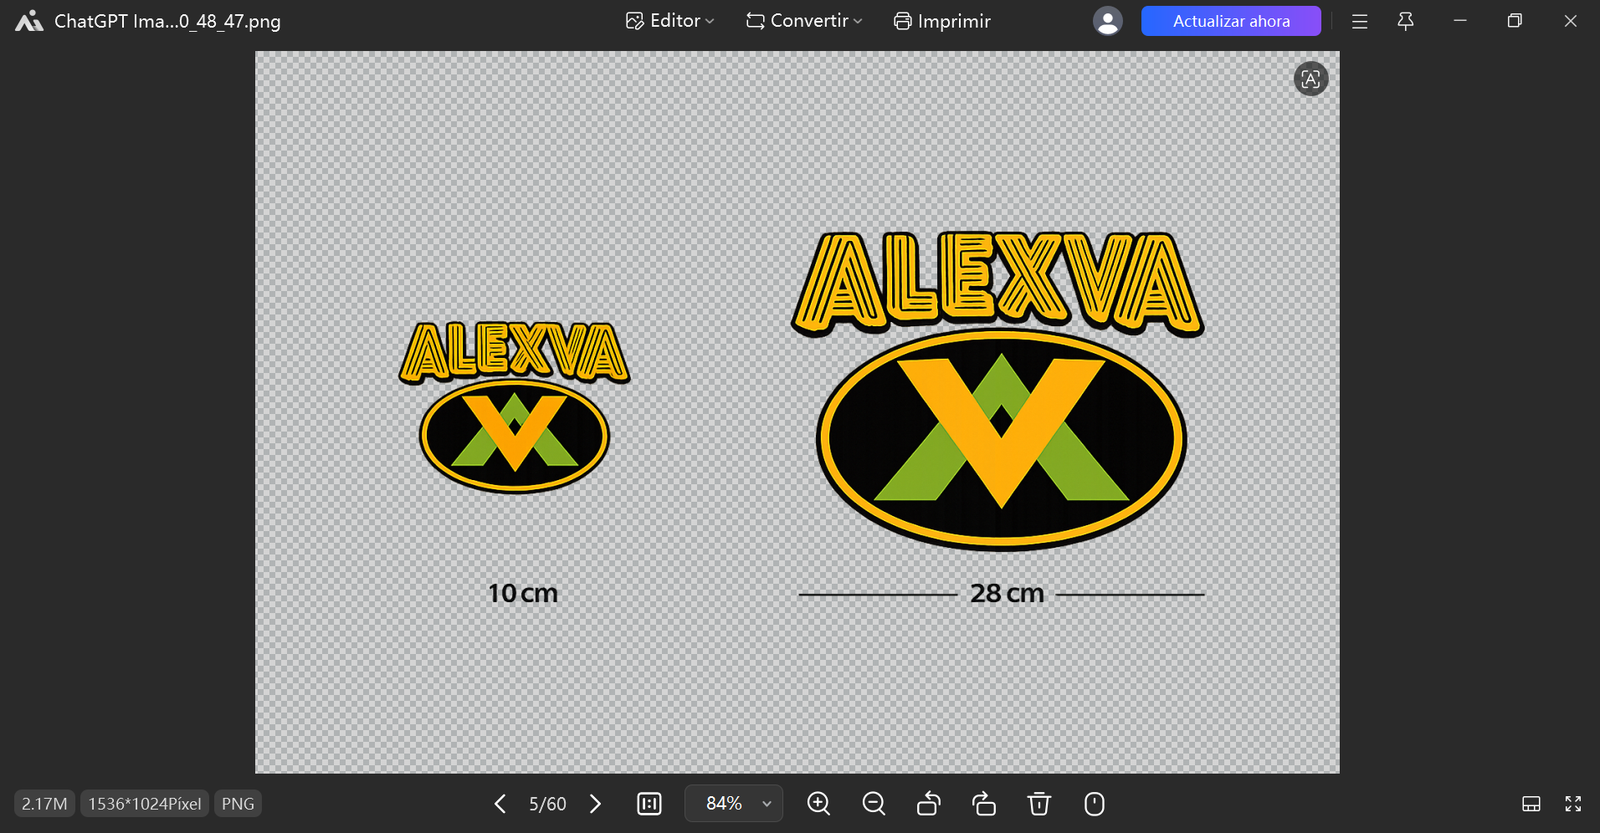
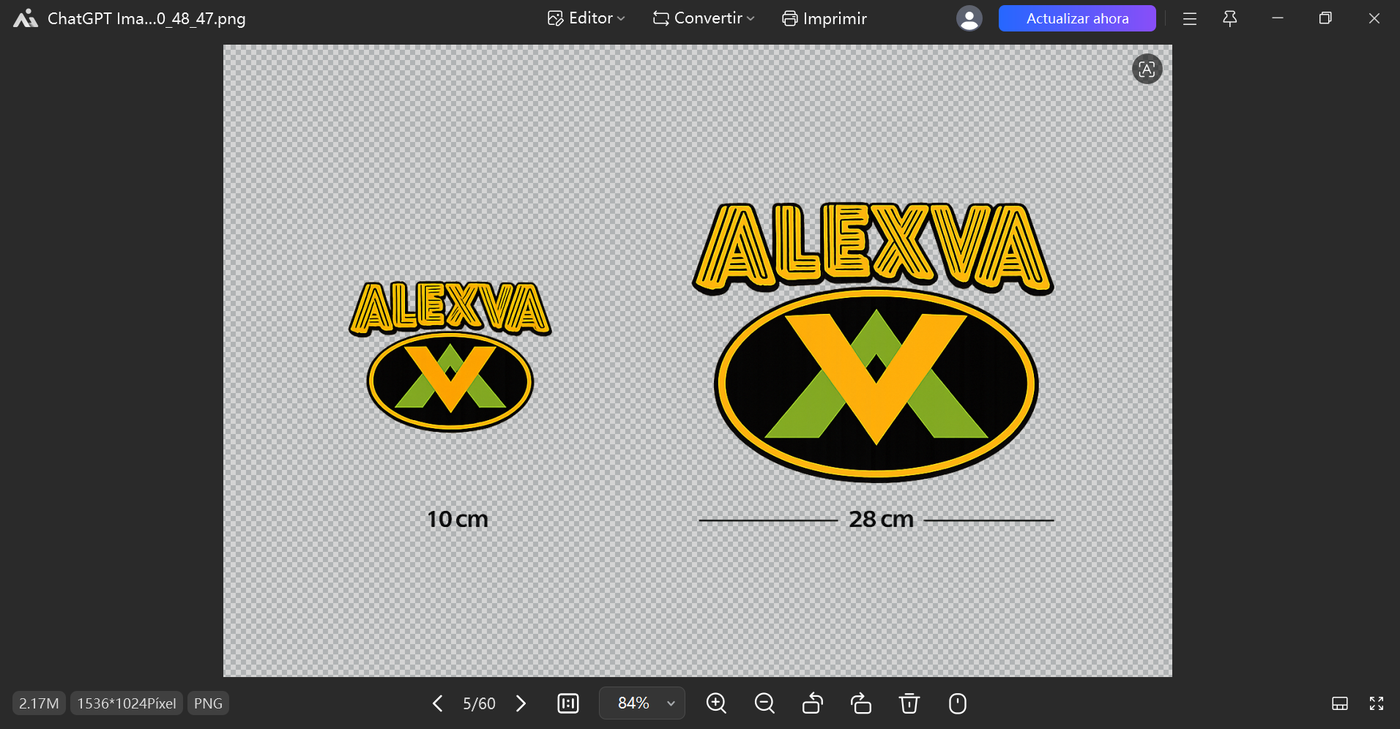
Add files via upload

diff --git a/index.html b/index.html
@@ -3,90 +3,93 @@
 <head>
   <meta charset="UTF-8" />
   <meta name="viewport" content="width=device-width, initial-scale=1.0" />
-  <title>ELITE DECORT & Events | Manualidades Personalizadas</title>
+  <title>Elite Decor & Events | Manualidades y Eventos</title>
   <link rel="stylesheet" href="styles.css" />
 </head>
 <body>
-  <header class="hero">
-    <nav class="navbar">
-      <div class="logo">ELITE DECORT<br><span>& Events</span></div>
-      <div class="nav-links">
-        <a href="#productos">Productos</a>
-        <a href="#personaliza">Personaliza</a>
-        <a href="#contacto">Contacto</a>
-      </div>
+  <header class="topbar">
+    <a href="#inicio" class="brand"><img src="assets/logo.jpg" alt="Logo Elite Decor & Events"><span>ELITE DECOR<br><small>& Events</small></span></a>
+    <nav>
+      <a href="#servicios">Servicios</a>
+      <a href="#galeria">Galería</a>
+      <a href="#videos">Videos</a>
+      <a href="#trabajos">Trabajos</a>
+      <a href="#contacto">Contacto</a>
     </nav>
-
-    <section class="hero-content">
-      <div>
-        <p class="tag">Detalles hechos con amor</p>
-        <h1>Manualidades personalizadas para regalar y sorprender</h1>
-        <p class="intro">Tazas, camisetas, termos, cajas sorpresa, decoración para eventos y regalos únicos hechos a tu gusto.</p>
-        <a class="btn" href="https://wa.me/[phone redacted]?text=Hola%2C%20quiero%20hacer%20un%20pedido%20personalizado" target="_blank">Pedir por WhatsApp</a>
-      </div>
-    </section>
   </header>
 
-  <main>
-    <section class="section" id="productos">
-      <p class="tag center">Catálogo</p>
-      <h2>Productos destacados</h2>
-      <div class="grid">
-        <article class="card">
-          <div class="emoji">☕</div>
-          <h3>Tazas personalizadas</h3>
-          <p>Diseños para cumpleaños, amor, familia, empresas y fechas especiales.</p>
-          <a href="https://wa.me/34652829254?text=Hola%2C%20quiero%20una%20taza%20personalizada" target="_blank">Cotizar</a>
-        </article>
-        <article class="card">
-          <div class="emoji">👕</div>
-          <h3>Camisetas y prendas</h3>
-          <p>Estampados personalizados para regalos, negocios, eventos y equipos.</p>
-          <a href="https://wa.me/34652829254?text=Hola%2C%20quiero%20personalizar%20una%20camiseta" target="_blank">Cotizar</a>
-        </article>
-        <article class="card">
-          <div class="emoji">🎁</div>
-          <h3>Cajas sorpresa</h3>
-          <p>Arma tu regalo como quieras según tu presupuesto y ocasión.</p>
-          <a href="https://wa.me/34652829254?text=Hola%2C%20quiero%20una%20caja%20sorpresa" target="_blank">Cotizar</a>
-        </article>
-        <article class="card">
-          <div class="emoji">🎈</div>
-          <h3>Decoración de eventos</h3>
-          <p>Arcos, detalles decorativos y decoración para cumpleaños, bautizos y celebraciones.</p>
-          <a href="https://wa.me/34652829254?text=Hola%2C%20quiero%20información%20sobre%20decoración%20de%20eventos" target="_blank">Cotizar</a>
-        </article>
+  <main id="inicio">
+    <section class="hero">
+      <div class="hero-text">
+        <p class="tag">Detalles hechos con amor</p>
+        <h1>Manualidades personalizadas, regalos y decoración para eventos</h1>
+        <p>Tazas, camisetas, cajas sorpresa, arcos, decoración y regalos únicos hechos a tu gusto.</p>
+        <div class="hero-buttons">
+          <a class="btn" href="#galeria">Ver galería</a>
+          <a class="btn secondary" href="https://wa.me/[phone redacted]" target="_blank">Pedir por WhatsApp</a>
+        </div>
+      </div>
+      <div class="hero-card"><img src="assets/logo_negro.jpg" alt="Elite Decor & Events"></div>
+    </section>
+
+    <section id="servicios" class="section">
+      <p class="tag">Lo que ofrecemos</p>
+      <h2>Servicios</h2>
+      <div class="cards">
+        <article><span>☕</span><h3>Tazas personalizadas</h3><p>Diseños para cumpleaños, amor, familia, empresas y fechas especiales.</p></article>
+        <article><span>👕</span><h3>Camisetas y prendas</h3><p>Estampados personalizados para negocios, eventos, equipos y regalos.</p></article>
+        <article><span>🎁</span><h3>Cajas sorpresa</h3><p>Detalles especiales con chocolates, perfumes, peluches y regalos.</p></article>
+        <article><span>🎈</span><h3>Decoración y arcos</h3><p>Alquiler de arco redondo y decoración para fiestas y momentos especiales.</p></article>
       </div>
     </section>
 
-    <section class="banner" id="personaliza">
-      <div>
-        <p class="tag">¿Cómo comprar?</p>
-        <h2>Elige, personaliza y recibe tu pedido</h2>
-        <p>Envíanos la foto, frase, nombre o idea que quieres. Te ayudamos a crear un detalle bonito, original y listo para regalar.</p>
-      </div>
-      <a class="btn dark" href="https://wa.me/34652829254?text=Hola%2C%20quiero%20personalizar%20un%20regalo" target="_blank">Personalizar ahora</a>
-    </section>
-
-    <section class="section why">
-      <h2>Por qué elegirnos</h2>
-      <div class="features">
-        <div><strong>Diseños únicos</strong><br>Hechos según tu idea.</div>
-        <div><strong>Atención cercana</strong><br>Te guiamos paso a paso.</div>
-        <div><strong>Regalos especiales</strong><br>Para toda ocasión.</div>
+    <section id="galeria" class="section dark">
+      <p class="tag">Fotos reales y diseños</p>
+      <h2>Galería de fotos</h2>
+      <div class="gallery">
+        <figure><img src="assets/tazas_mama.jpg" alt="Tazas personalizadas"><figcaption>Tazas personalizadas</figcaption></figure>
+        <figure><img src="assets/taza_cumple.jpg" alt="Taza cumpleaños"><figcaption>Taza de cumpleaños</figcaption></figure>
+        <figure><img src="assets/taza_gaby.jpg" alt="Taza infantil"><figcaption>Taza infantil personalizada</figcaption></figure>
+        <figure><img src="assets/tazas_publicidad.jpg" alt="Tazas promocionales"><figcaption>Promoción de tazas</figcaption></figure>
+        <figure><img src="assets/camisetas.png" alt="Camisetas personalizadas"><figcaption>Camisetas personalizadas</figcaption></figure>
+        <figure><img src="assets/alexva.png" alt="Logo para camiseta"><figcaption>Diseño para estampar</figcaption></figure>
+        <figure><img src="assets/caja_real.jpg" alt="Caja sorpresa real"><figcaption>Caja sorpresa real</figcaption></figure>
+        <figure><img src="assets/caja_publicidad.jpg" alt="Caja sorpresa mamá"><figcaption>Caja sorpresa para mamá</figcaption></figure>
+        <figure><img src="assets/arco.png" alt="Arco redondo para alquilar"><figcaption>Arco redondo para alquilar</figcaption></figure>
       </div>
     </section>
 
-    <section class="contact" id="contacto">
-      <h2>Haz tu pedido</h2>
-      <p>Escríbenos por WhatsApp y cuéntanos qué detalle quieres crear.</p>
-      <div class="phone">📲 [phone redacted] / [phone redacted]</div>
-      <a class="btn" href="https://wa.me/34652829254?text=Hola%2C%20vengo%20de%20la%20página%20web%20y%20quiero%20hacer%20un%20pedido" target="_blank">Enviar mensaje</a>
+    <section id="videos" class="section">
+      <p class="tag">Contenido para redes</p>
+      <h2>Videos</h2>
+      <div class="video-grid">
+        <div class="video-box"><h3>Video de tazas</h3><p>Aquí puedes poner un enlace de YouTube, TikTok o Instagram mostrando tus tazas.</p></div>
+        <div class="video-box"><h3>Antes y después</h3><p>Espacio para videos cortos de trabajos terminados y proceso.</p></div>
+        <div class="video-box"><h3>Decoración de eventos</h3><p>Espacio para videos de arcos, montajes y decoración.</p></div>
+      </div>
+      <p class="note">Cuando tengas enlaces de videos, se cambian estos cuadros por videos reales.</p>
+    </section>
+
+    <section id="trabajos" class="section dark">
+      <p class="tag">Ejemplos con descripción</p>
+      <h2>Trabajos realizados</h2>
+      <div class="work-list">
+        <article><img src="assets/tazas_mama.jpg" alt="Tazas para mamá"><div><h3>Tazas para fechas especiales</h3><p>Diseños personalizados para mamá, hermana, suegra y regalos familiares.</p></div></article>
+        <article><img src="assets/caja_real.jpg" alt="Caja sorpresa"><div><h3>Cajas sorpresa personalizadas</h3><p>Regalos armados con detalles, chocolates, perfume y decoración especial.</p></div></article>
+        <article><img src="assets/arco.png" alt="Arco redondo"><div><h3>Decoración y alquiler de arco</h3><p>Arco redondo disponible para cumpleaños, baby shower, bautizos y fiestas.</p></div></article>
+        <article><img src="assets/camisetas.png" alt="Camisetas"><div><h3>Camisetas y uniformes</h3><p>Diseños para pecho y espalda con logos de empresa o marca personal.</p></div></article>
+      </div>
+    </section>
+
+    <section id="contacto" class="section contact">
+      <h2>Contacto</h2>
+      <p>Haz tu pedido o cotización por WhatsApp.</p>
+      <p class="phones">652822545 · 652829254</p>
+      <a class="btn" href="https://wa.me/[phone redacted]" target="_blank">Escribir por WhatsApp</a>
+      <p class="social">Instagram / Facebook / TikTok: añade aquí tus redes sociales</p>
     </section>
   </main>
 
-  <footer>
-    <p>© 2026 ELITE DECORT & Events. Manualidades y detalles personalizados.</p>
-  </footer>
+  <a class="whatsapp" href="https://wa.me/[phone redacted]" target="_blank">WhatsApp</a>
 </body>
 </html>

diff --git a/styles.css b/styles.css
@@ -1,1 +1,1 @@
-*{box-sizing:border-box}body{margin:0;font-family:Arial,Helvetica,sans-serif;background:#fff8f3;color:#211816}a{color:inherit}.hero{min-height:92vh;background:linear-gradient(135deg,rgba(0,0,0,.86),rgba(77,43,30,.83)),url('assets/logo.jpg') center/cover;color:white}.nav{display:flex;align-items:center;justify-content:space-between;padding:24px 6%;position:relative;z-index:2}.brand{font-weight:800;letter-spacing:2px;font-size:24px}.brand span{display:block;font-weight:300;font-size:14px;letter-spacing:4px;color:#e8c37b}.links{display:flex;gap:22px}.links a{text-decoration:none;color:#fff}.hero-content{display:grid;grid-template-columns:1.1fr .9fr;gap:40px;align-items:center;padding:50px 6% 80px}.tag{text-transform:uppercase;letter-spacing:3px;color:#c99245;font-weight:700;font-size:13px}.hero h1{font-size:58px;line-height:1.02;margin:16px 0;max-width:820px}.sub{font-size:21px;line-height:1.6;color:#f7e9d8}.hero-logo{width:100%;border-radius:28px;box-shadow:0 20px 60px rgba(0,0,0,.35)}.buttons{display:flex;gap:14px;flex-wrap:wrap;margin-top:28px}.btn{display:inline-block;padding:14px 22px;border:1px solid #d8b36a;border-radius:999px;text-decoration:none;font-weight:700}.btn.primary{background:linear-gradient(135deg,#d8b36a,#f8e0a1);color:#1e140d;border:0}.section{padding:70px 6%}.section h2{font-size:42px;margin:8px 0 26px}.cards{display:grid;grid-template-columns:repeat(3,1fr);gap:24px}.card{background:#fff;border-radius:24px;padding:18px;box-shadow:0 12px 35px rgba(86,52,31,.13);overflow:hidden}.card img{width:100%;height:250px;object-fit:cover;border-radius:18px;background:#eee}.card h3{font-size:24px}.card p{line-height:1.6;color:#5c4c43}.card a{color:#9c642b;font-weight:800}.dark{background:#15100e;color:white}.split{display:grid;grid-template-columns:.9fr 1.1fr;gap:38px;align-items:center}.split img{width:100%;border-radius:28px;box-shadow:0 20px 55px rgba(0,0,0,.3)}.split p{font-size:19px;line-height:1.7;color:#f2e3d4}.gallery{display:grid;grid-template-columns:repeat(3,1fr);gap:18px}.gallery img{width:100%;height:280px;object-fit:cover;border-radius:20px;box-shadow:0 10px 28px rgba(0,0,0,.12);background:#fff}.contact{text-align:center;background:#f3e6da}.contact p{font-size:19px}.contact-box{display:flex;justify-content:center;gap:16px;flex-wrap:wrap;margin-top:24px}.float{position:fixed;right:20px;bottom:20px;background:#25d366;color:white;text-decoration:none;padding:16px 22px;border-radius:999px;font-weight:800;box-shadow:0 10px 30px rgba(0,0,0,.25)}footer{text-align:center;padding:28px;background:#0e0b0a;color:#e8c37b}@media(max-width:900px){.hero-content,.split{grid-template-columns:1fr}.hero h1{font-size:38px}.cards,.gallery{grid-template-columns:1fr}.links{display:none}.hero-logo{max-width:520px}.section h2{font-size:32px}}
+*{box-sizing:border-box}body{margin:0;font-family:Arial,Helvetica,sans-serif;background:#fff7f0;color:#241b18}a{color:inherit}.topbar{position:sticky;top:0;z-index:10;background:#160f0d;color:#fff;display:flex;align-items:center;justify-content:space-between;padding:12px 6%;box-shadow:0 4px 20px #0005}.brand{display:flex;gap:12px;align-items:center;text-decoration:none;font-weight:800;letter-spacing:1px}.brand img{width:58px;height:58px;border-radius:50%;object-fit:cover;border:1px solid #d4a95f}.brand small{color:#d4a95f}.topbar nav{display:flex;gap:18px;flex-wrap:wrap}.topbar nav a{text-decoration:none;color:#fff;font-weight:700}.topbar nav a:hover{color:#d4a95f}.hero{min-height:640px;background:linear-gradient(120deg,#201713,#704f43);color:#fff;display:grid;grid-template-columns:1.1fr .9fr;gap:40px;align-items:center;padding:70px 6%}.hero h1{font-size:clamp(38px,6vw,78px);line-height:1.03;margin:18px 0}.hero p{font-size:22px;max-width:780px}.tag{text-transform:uppercase;letter-spacing:5px;color:#d9a85c;font-weight:900;font-size:14px}.hero-card img{width:100%;max-height:500px;object-fit:cover;border-radius:28px;box-shadow:0 25px 60px #0008}.btn{display:inline-block;background:#d4a95f;color:#1a100d;text-decoration:none;padding:16px 28px;border-radius:40px;font-weight:900;margin:10px 8px 10px 0}.btn.secondary{background:transparent;color:#fff;border:1px solid #d4a95f}.section{padding:70px 6%}.section h2{font-size:clamp(34px,4vw,56px);margin:10px 0 30px}.dark{background:#160f0d;color:#fff}.cards{display:grid;grid-template-columns:repeat(4,1fr);gap:22px}.cards article,.video-box{background:#fff;border-radius:22px;padding:28px;box-shadow:0 12px 35px #0001}.cards span{font-size:40px}.cards h3,.video-box h3{margin-bottom:8px}.gallery{display:grid;grid-template-columns:repeat(3,1fr);gap:22px}.gallery figure{margin:0;background:#fff;border-radius:22px;overflow:hidden;color:#241b18;box-shadow:0 15px 40px #0005}.gallery img{width:100%;height:310px;object-fit:cover;display:block}.gallery figcaption{font-weight:900;padding:16px;text-align:center}.video-grid{display:grid;grid-template-columns:repeat(3,1fr);gap:22px}.video-box{min-height:190px;border:2px dashed #d4a95f;display:flex;flex-direction:column;justify-content:center;text-align:center}.note{color:#6d534a}.work-list{display:grid;grid-template-columns:repeat(2,1fr);gap:22px}.work-list article{display:flex;gap:20px;background:#fff;color:#241b18;border-radius:22px;overflow:hidden;box-shadow:0 15px 40px #0005}.work-list img{width:210px;height:170px;object-fit:cover}.work-list div{padding:18px}.contact{text-align:center;background:linear-gradient(120deg,#fff7f0,#f7e2d5)}.phones{font-size:28px;font-weight:900;color:#704f43}.social{margin-top:22px;color:#6b5147}.whatsapp{position:fixed;right:18px;bottom:18px;background:#25d366;color:white;padding:16px 22px;border-radius:40px;font-weight:900;text-decoration:none;box-shadow:0 8px 25px #0005}@media(max-width:900px){.topbar{display:block;text-align:center}.brand{justify-content:center;margin-bottom:10px}.hero{grid-template-columns:1fr;min-height:auto}.cards,.gallery,.video-grid,.work-list{grid-template-columns:1fr}.work-list article{display:block}.work-list img{width:100%;height:240px}.gallery img{height:260px}}